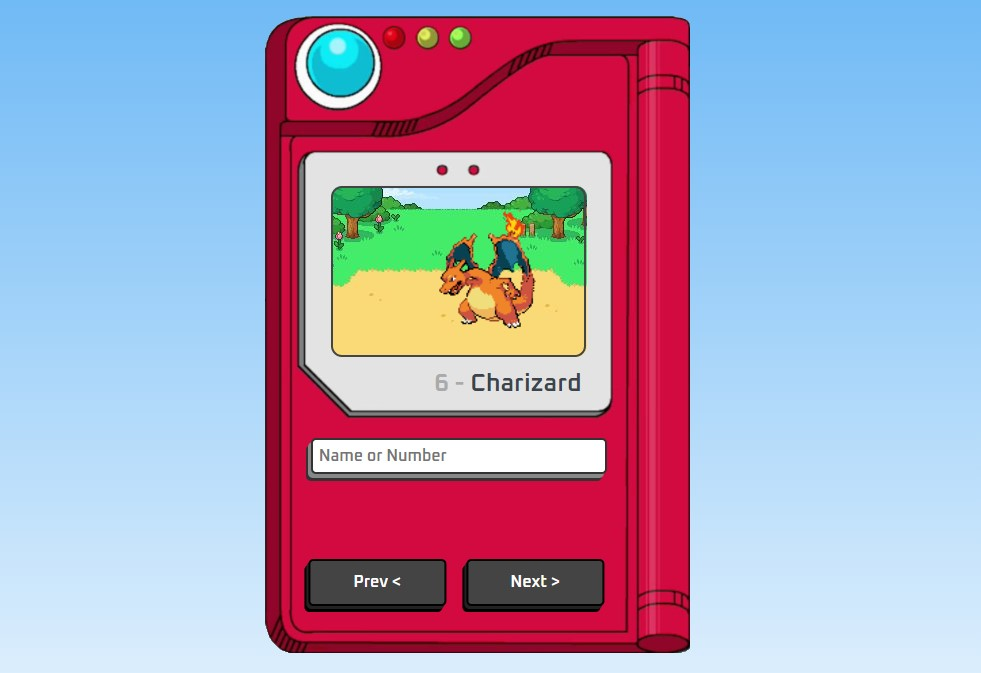
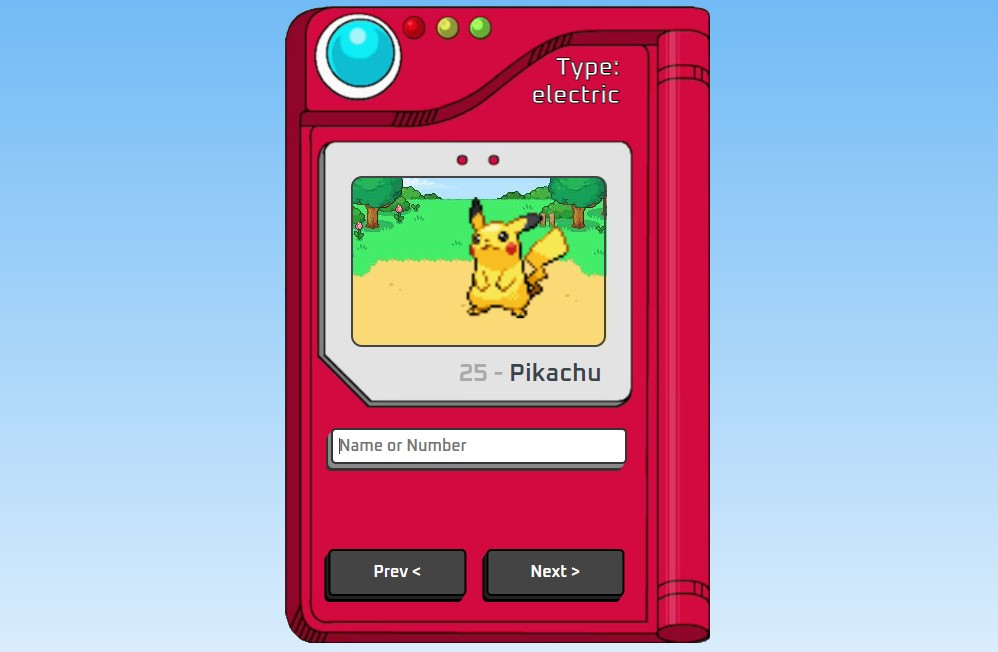
new updates

Changed region(s): [[0.2446, 0.0, 0.7339, 1.0]]

diff --git a/pokedex-challenge-2.0/js/script.js b/pokedex-challenge-2.0/js/script.js
@@ -28,11 +28,10 @@ const renderPokemon = async (pokemon) => {
 
     const data = await fetchPokemon(pokemon);
     
-    if (data.id >= 1 && data.id <= 649) {
+    if (data) {
         pokemonImage.style.display = 'block';
         pokemonName.innerHTML = data.name;
         pokemonNumber.innerHTML = data.id;
-        pokemonType1.innerHTML = data['types']['0']['type']['name'];
         pokemonImage.src = data['sprites']['versions']['generation-v']['black-white']['animated']['front_default'];
         input.value ='';
         searchPokemon = data.id;
@@ -44,11 +43,17 @@ const renderPokemon = async (pokemon) => {
         pokemonType2.innerHTML = '';
         input.value ='';
     }
-    /*if (otherType = true) {
+    
+    if (data['types'][0] != undefined) {
+        pokemonType1.innerHTML = data['types']['0']['type']['name'];
+    } else {
+        pokemonType1.innerHTML = '';
+    }
+    if (data['types'][1] != undefined) {
         pokemonType2.innerHTML = data['types']['1']['type']['name'];
-    }   else {
+    } else {
         pokemonType2.innerHTML = '';
-    }*/
+    }
 }
 
 form.addEventListener('submit', (event) => {

diff --git a/pokedex-challenge-2.0/README.md b/pokedex-challenge-2.0/README.md
@@ -22,11 +22,12 @@ Esse projeto foi desenvolvido com as seguintes tecnologias:
 - HTML e CSS
 - JavaScript
 - Git e Github
+- API
 
 ## 💻 Projeto
 
 O objetivo do projeto foi montar uma pokédex funcional onde é possível pesquisar pelo Pokémon através do número da pokédex ou pelo nome.
-- [Acesse o projeto finalizado online](https://luizrantunes.github.io/learning-programming/pokedex-challenge)
+- [Acesse o projeto finalizado online](https://luizrantunes.github.io/learning-programming/pokedex-challenge-2.0)
 
 ## 🔖 Layout
 
